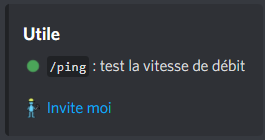
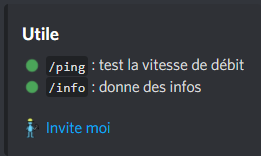
cvc

diff --git a/mybou.html b/mybou.html
@@ -29,17 +29,19 @@
         </div>
         <div class="flex">
             <img src="msupport.PNG">
-            <img src="mutil.PNG">
-            <img src="minfo.PNG">
+            
+            <img src="meco.PNG">
         </div>
         <div class="flex">
+            <img src="mutil.PNG">
         <img src="mlevel.PNG">
-        <img src="meco.PNG">
         <img src="mrecherche.PNG">
         <img src="mtravia.PNG">
         <br><br><br><br><br><br>
     </div>
-
+    <div class="flex">
+        <span class="texteinfo">Ressource</span>
+    </div>
     <div class="menu">
         <a class="lien" href="https://discord.gg/6hqzpDHAUG" target="_blank" title="discord">Discord</a>
         <a class="lien" href="presentationmybou.html" title="présentation">Présentation</a>
